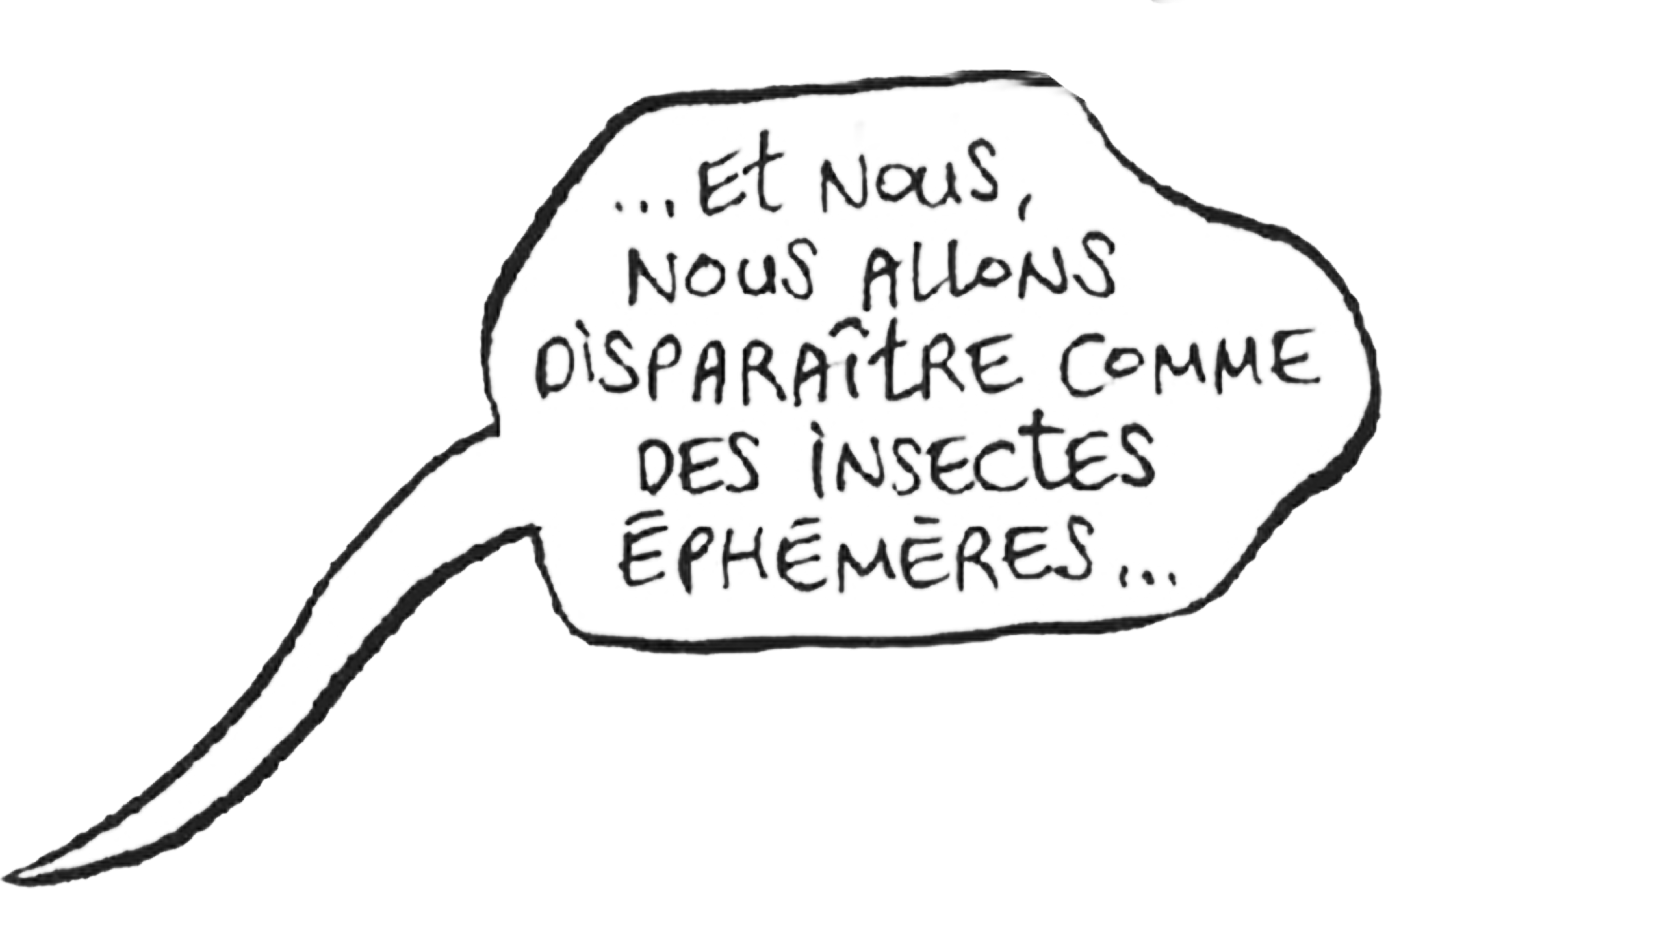
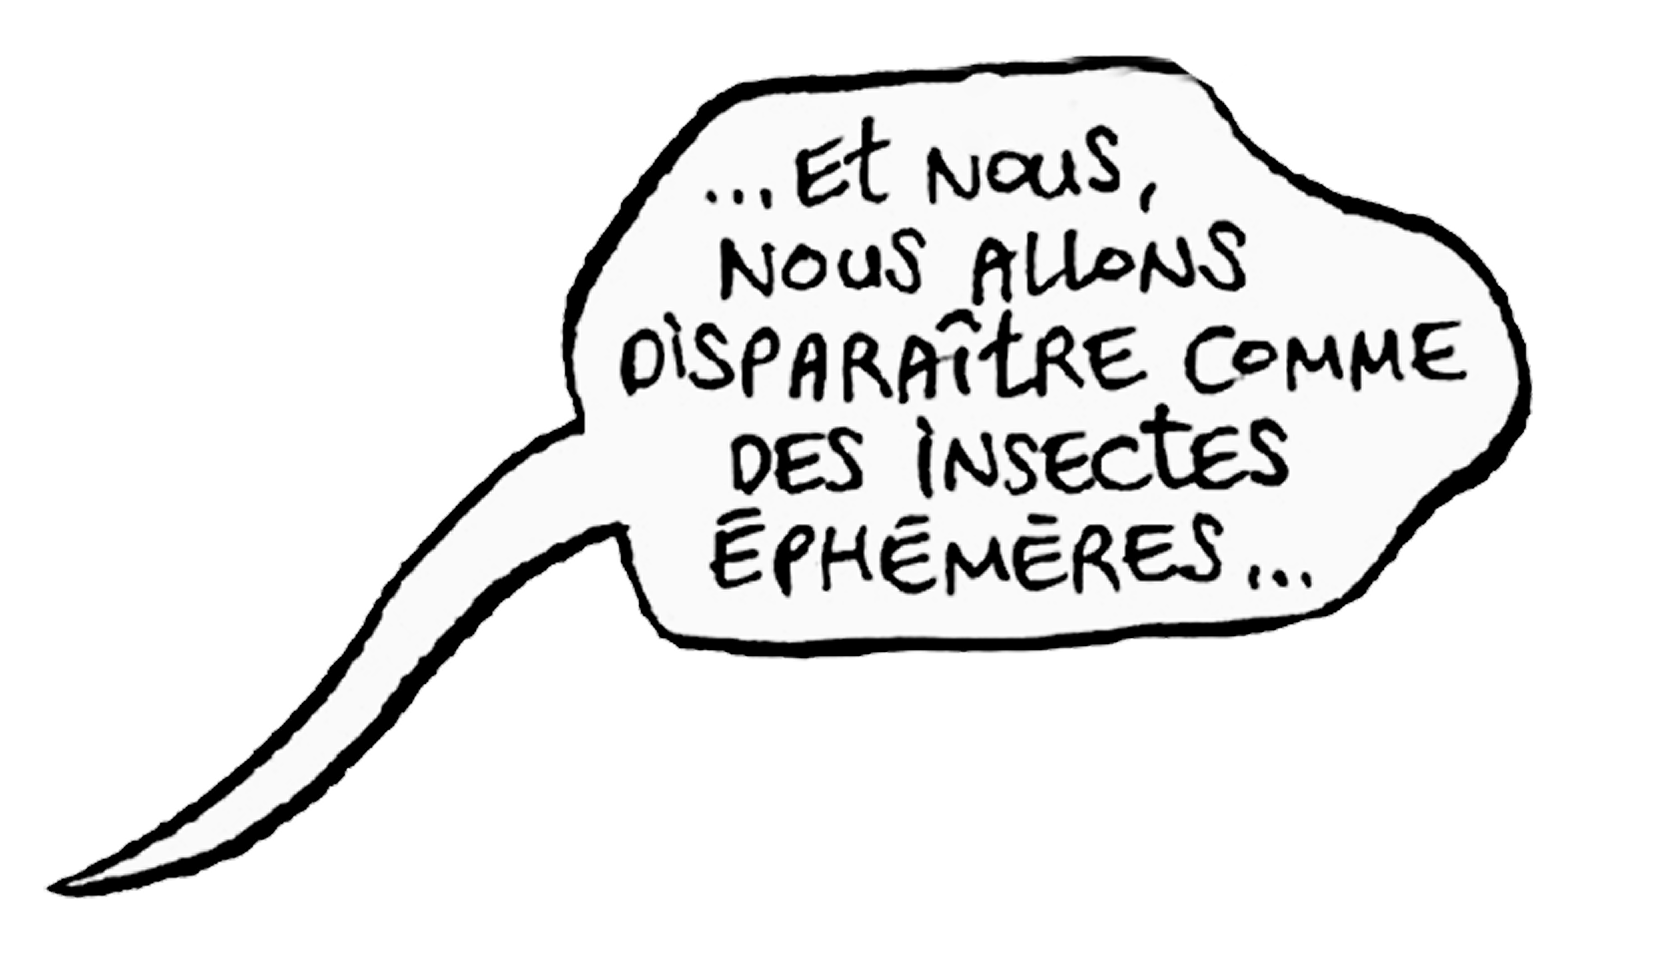
premières animations

Changed region(s): [[0.0, 0.0312, 0.9228, 0.9667], [0.7382, 0.1247, 0.892, 0.2806]]

diff --git a/src/index.html b/src/index.html
@@ -40,7 +40,13 @@
     <div class="container">
       <div class="row">
         <div class="col-12">
-          <video class="experience-video-poisson" autoplay muted loop>
+          <video
+            class="experience-video-poisson"
+            autoplay
+            muted
+            loop
+            playsinline
+          >
             <source
               src="video/video_poisson_boucle.mp4"
               type="video/mp4"
@@ -110,6 +116,15 @@
                 class="experience-personnage-grandit-2"
                 src="img/personnage-grandit-scroll 2.png"
               />
+            </div>
+
+            <div class="experience-background-stars">
+              <img src="img/background_étoile.svg" alt="fond étoilé " />
+              <img class="experience-bulle-up" src="img/bulle_03.svg" />
+              <div class="experience-cases-felix-base">
+                <img class="experience-cases-felix-1" src="img/felix_01.svg" />
+                <img class="experience-cases-felix-2" src="img/Felix_02.svg" />
+              </div>
             </div>
           </div>
         </div>

diff --git a/src/js/main.js b/src/js/main.js
@@ -1,1 +1,23 @@
 import { gsap } from "gsap";
+gsap.to(".header-icone", {
+  y: 150,
+  duration: 1.5,
+  yoyo: true,
+  repeat: -1,
+  ease: "power1.inOut",
+});
+
+gsap.utils.toArray(".experience-bulle-1").forEach((el) => {
+  gsap.from(el, {
+    opacity: 0,
+    y: 30,
+    duration: 3,
+    scrollTrigger: {
+      trigger: el,
+      start: "top 95%", // quand l'élément entre dans la vue
+      toggleActions: "play none none none",
+    },
+  });
+});
+
+ScrollTrigger.refresh();

diff --git a/src/scss/modules/_experience_utilisateur.scss b/src/scss/modules/_experience_utilisateur.scss
@@ -29,12 +29,12 @@
 }
 
 .experience-bulle-1 {
-  margin-left: 15%;
-  width: 40%;
+  margin-left: 30%;
+  width: 30%;
 }
 
 .experience-bulle-2 {
-  margin-left: 55%;
+  margin-left: 50%;
   width: 50%;
   margin-top: -5%;
 }
